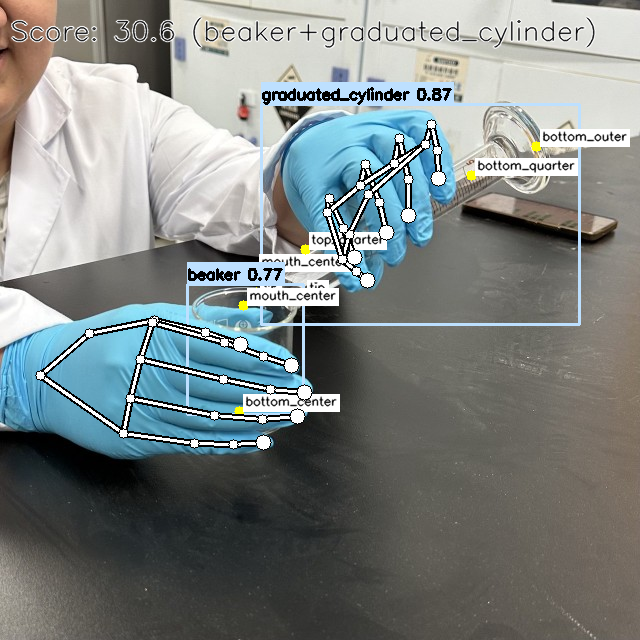
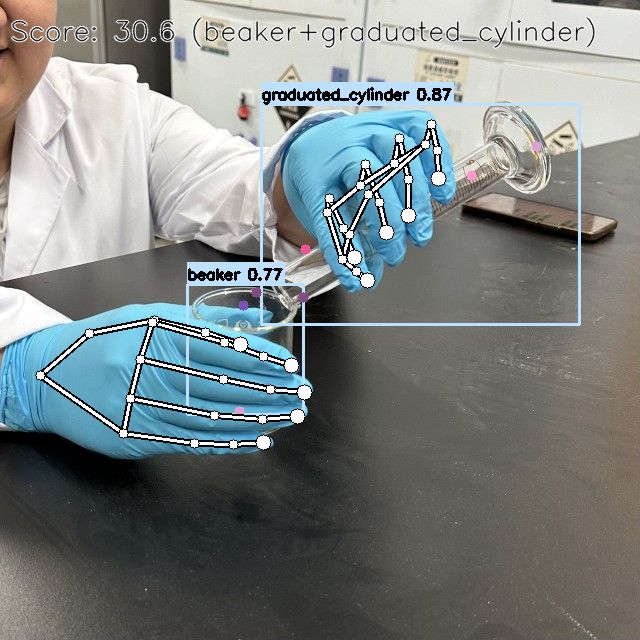
美化Readme

Changed region(s): [[0.375, 0.3438, 0.625, 0.5], [0.7188, 0.1875, 1.0, 0.2812], [0.375, 0.5938, 0.5312, 0.6562]]

diff --git a/debug/score_pipeline.py b/debug/score_pipeline.py
@@ -8,6 +8,14 @@ from xgboost_scorer.action_scorer import ActionScorer
 from utils.draw_keypoints import draw_keypoints
 from utils.draw_hand import draw_landmarks
 
+vessel_keypoint_colors = [
+    (130, 76, 130),   # 紫罗兰 (Violet) BGR
+    (180, 82, 120),   # 茄子色 (Eggplant) BGR
+    (211, 160, 221),  # 淡紫色 (Thistle) BGR
+    (148, 87, 235),   # 紫色 (Purple) BGR
+    (204, 153, 255),  # 淡茄子 (Light Eggplant) BGR
+]
+
 class ScorerPipeline:
     def __init__(self):
         self.vessel_detector = VesselCascadeDetector()
@@ -28,7 +36,7 @@ class ScorerPipeline:
         if vessel_info.get("poses") and gesture_info.get("hands"):
             score_result = self.action_scorer.score_frame(vessel_info, gesture_info)
         # 4. 绘制容器关键点
-        vis_frame = draw_keypoints(frame, vessel_info, show_names=True, draw_bbox=True)
+        vis_frame = draw_keypoints(frame, vessel_info, show_names=False, keypoint_colors=vessel_keypoint_colors, draw_bbox=True)
         # 5. 绘制手部关键点
         for hand in gesture_info.get("hands", []):
             points = [(kpt["x"], kpt["y"]) for kpt in hand.get("keypoints", [])]
@@ -51,6 +59,6 @@ if __name__ == "__main__":
     vis_frame, result = pipeline.detect_frame(img)
     print(result)
     cv2.imshow("Result", vis_frame)
-    cv2.imwrite("examples/results/scorer_test.png", vis_frame)
+    # cv2.imwrite("examples/results/scorer_test.png", vis_frame)
     cv2.waitKey(0)
     cv2.destroyAllWindows()

diff --git a/debug/vessel_bbox.py b/debug/vessel_bbox.py
@@ -81,41 +81,6 @@ class VesselDetector:
 
         return processed_frame, detection_info
     
-    def process_video(self, video_source=0, display=True):
-        """
-        处理视频流
-        
-        Args:
-            video_source: 视频源，可以是摄像头索引或视频文件路径
-            display: 是否显示处理结果
-            
-        Returns:
-            None
-        """
-        cap = cv2.VideoCapture(video_source)
-        
-        if not cap.isOpened():
-            print("Error: Could not open video source.")
-            return
-            
-        try:
-            while cap.isOpened():
-                ret, frame = cap.read()
-                if not ret:
-                    break
-                
-                processed_frame, detection_info = self.detect_frame(frame)
-                
-                if display:
-                    cv2.imshow("Vessel Detection", processed_frame)
-                    if cv2.waitKey(1) & 0xFF == ord('q'):  # 按q退出
-                        break
-                        
-        finally:
-            cap.release()
-            if display:
-                cv2.destroyAllWindows()
-
     def debug_image_predict(self, image_path):
         """
         临时debug方法：读取一张图片

diff --git a/vessel_detect/vessel_cascade.py b/vessel_detect/vessel_cascade.py
@@ -204,11 +204,11 @@ class VesselCascadeDetector:
         processed_frame, detection_info = self.detect_frame(img)
         cv2.imshow("Vessel Cascade Detection", processed_frame)
         cv2.waitKey(0)
-        # cv2.imwrite("examples/results/vessel_pose_test.png", processed_frame)
+        cv2.imwrite("examples/test/temp/beaker.png", processed_frame)
         print(detection_info)
 
 
 # 示例用法
 if __name__ == "__main__":
     detector = VesselCascadeDetector(show_kpt_names=True)
-    detector.debug_image_predict("examples/test/test_1.jpg")
+    detector.debug_image_predict("examples/test/temp/image3.png")

diff --git a/README.md b/README.md
@@ -6,9 +6,20 @@ A computer vision system for real-time detection and analysis of laboratory vess
 
 ## Project Overview ✨
 
-This project employs a cascade detection approach to identify laboratory vessels and determine their pose/orientation. The system utilizes **two-stage detection**:
-1. First detecting the vessel's boundary box
-2. Then analyzing the vessel's precise pose and orientation
+Modules and pipelines for chemical laboratory experiment monitoring.
+
+**Thread 1: Safety Detection**
+- Safety gear detection (gloves, lab coats)
+
+**Thread 2: Score Pipeline**
+- **Gesture Detection**: MediaPipe hand tracking
+- **Vessel Detection**: 
+  - Bounding box model for vessel localization and cropping
+  - Pose model for keypoint detection
+  - Post-processing for keypoint correction
+- **Action Scoring**: XGBoost-based operation evaluation
+
+*Recommended to use frame sampling for optimal performance.*
 
 ## Project Structure 📁
 
@@ -16,17 +27,21 @@ This project employs a cascade detection approach to identify laboratory vessels
 Chem_Lab_detect/
 ├── models/                  # Trained ML models
 ├── safety_detect/           # Safety detection (glove/naked_hand, lab_coat)
-├── vessel_detect/           # Vessel detection (vessel_bbox, vessel_cascade)
-├── xgboost_scorer/          # Action scoring (action scorer)
+├── vessel_detect/           # Vessel detection (vessel_cascade, keypoints_corrector)
+├── xgboost_scorer/          # Action scoring (Pour between two vessels)
 ├── chem_lab_agent/          # LLM agent for chemical lab operations (Q&A)
+├── debug/                   # debug modules on test images
 ├── utils/                   # Utility functions (drawing)
 └── examples/                # Examples to debug on
 ```
 
 ## Results Display 🎉
 
-![Safety detection result](examples/results/safety_test.png)
-_Safety detection result example_
+<img src="examples/results/safety_test.png" alt="Safety detection result" width="300" />
+<p><em>Safety detection result example</em></p>
 
-![Vessel pose detection result](examples/results/scorer_test.png)
-_Vessel pose detection result example_
+<img src="examples/results/vessel_test.png" alt="Vessel keypoints detection result" width="400" />
+<p><em>Vessel keypoints detection result example</em></p>
+
+<img src="examples/results/scorer_test.png" alt="Action score result" width="300" />
+<p><em>Action score result example</em></p>
